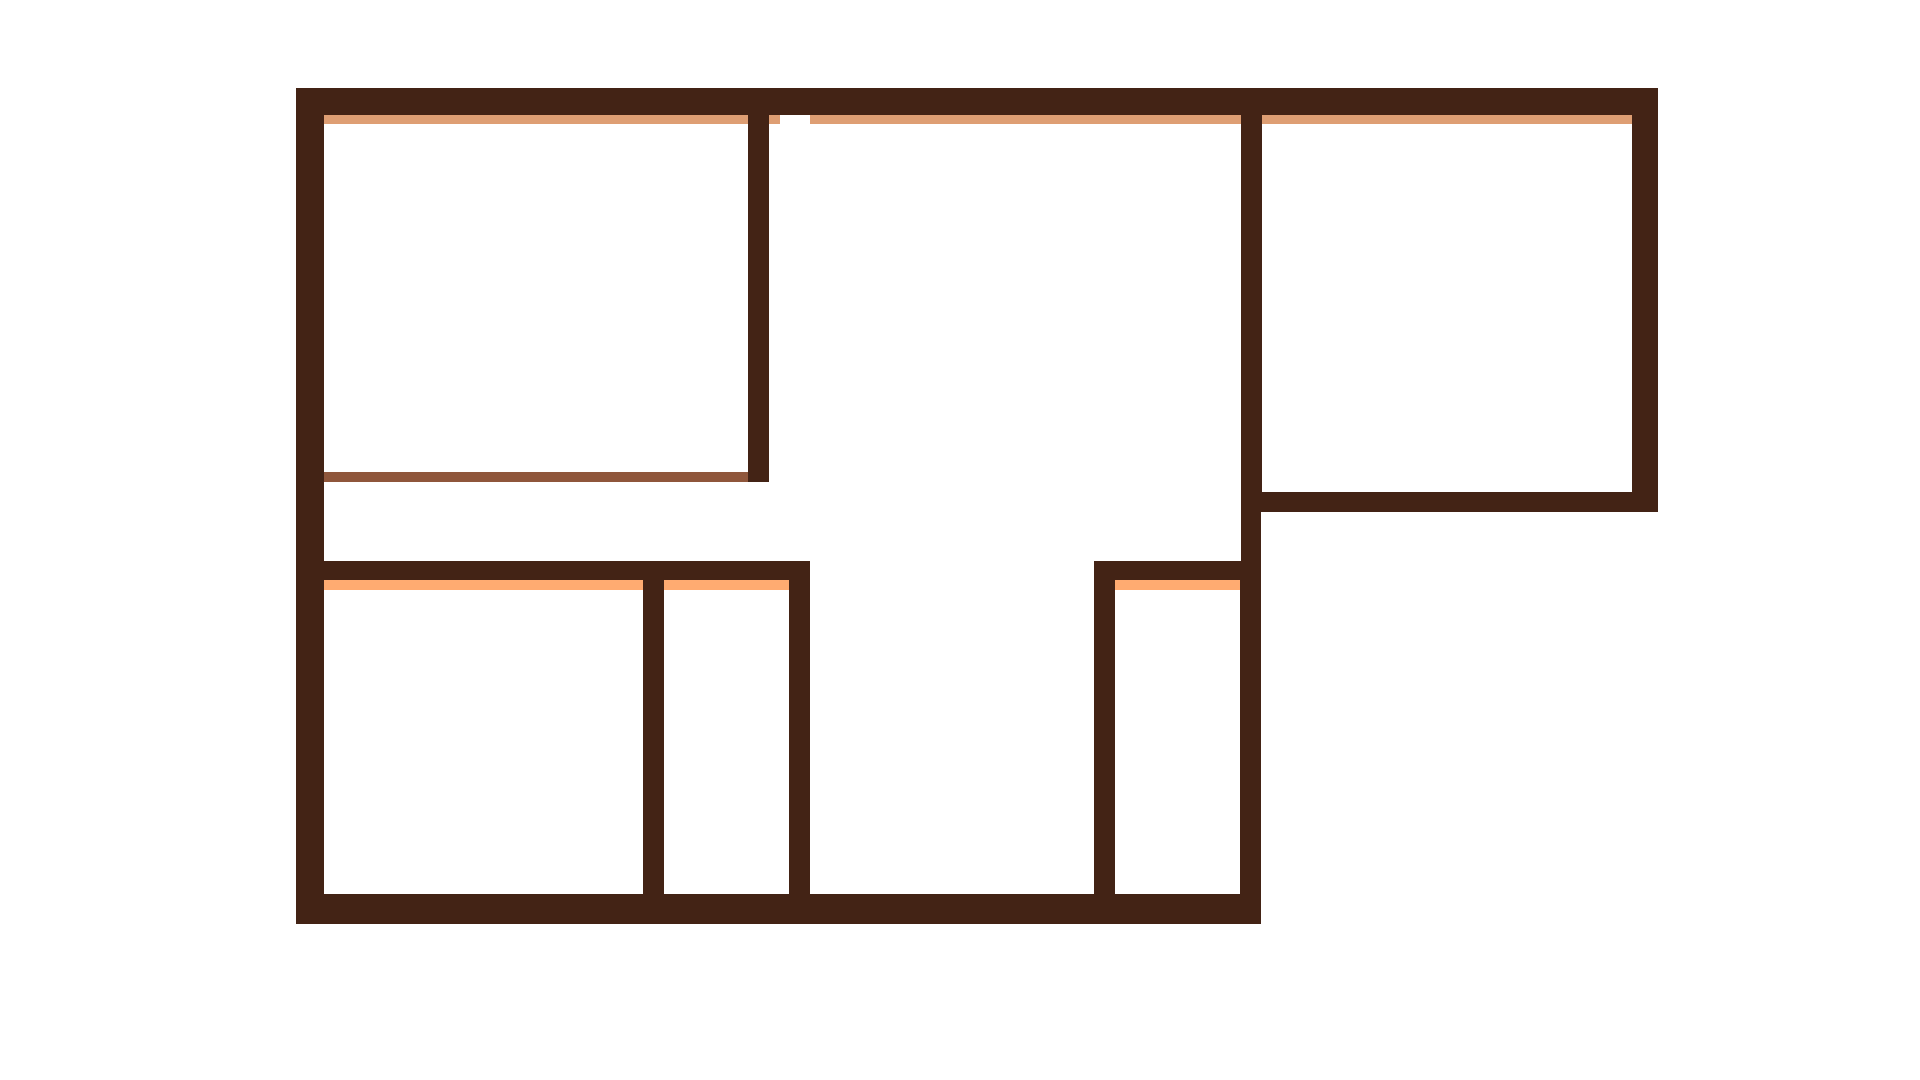
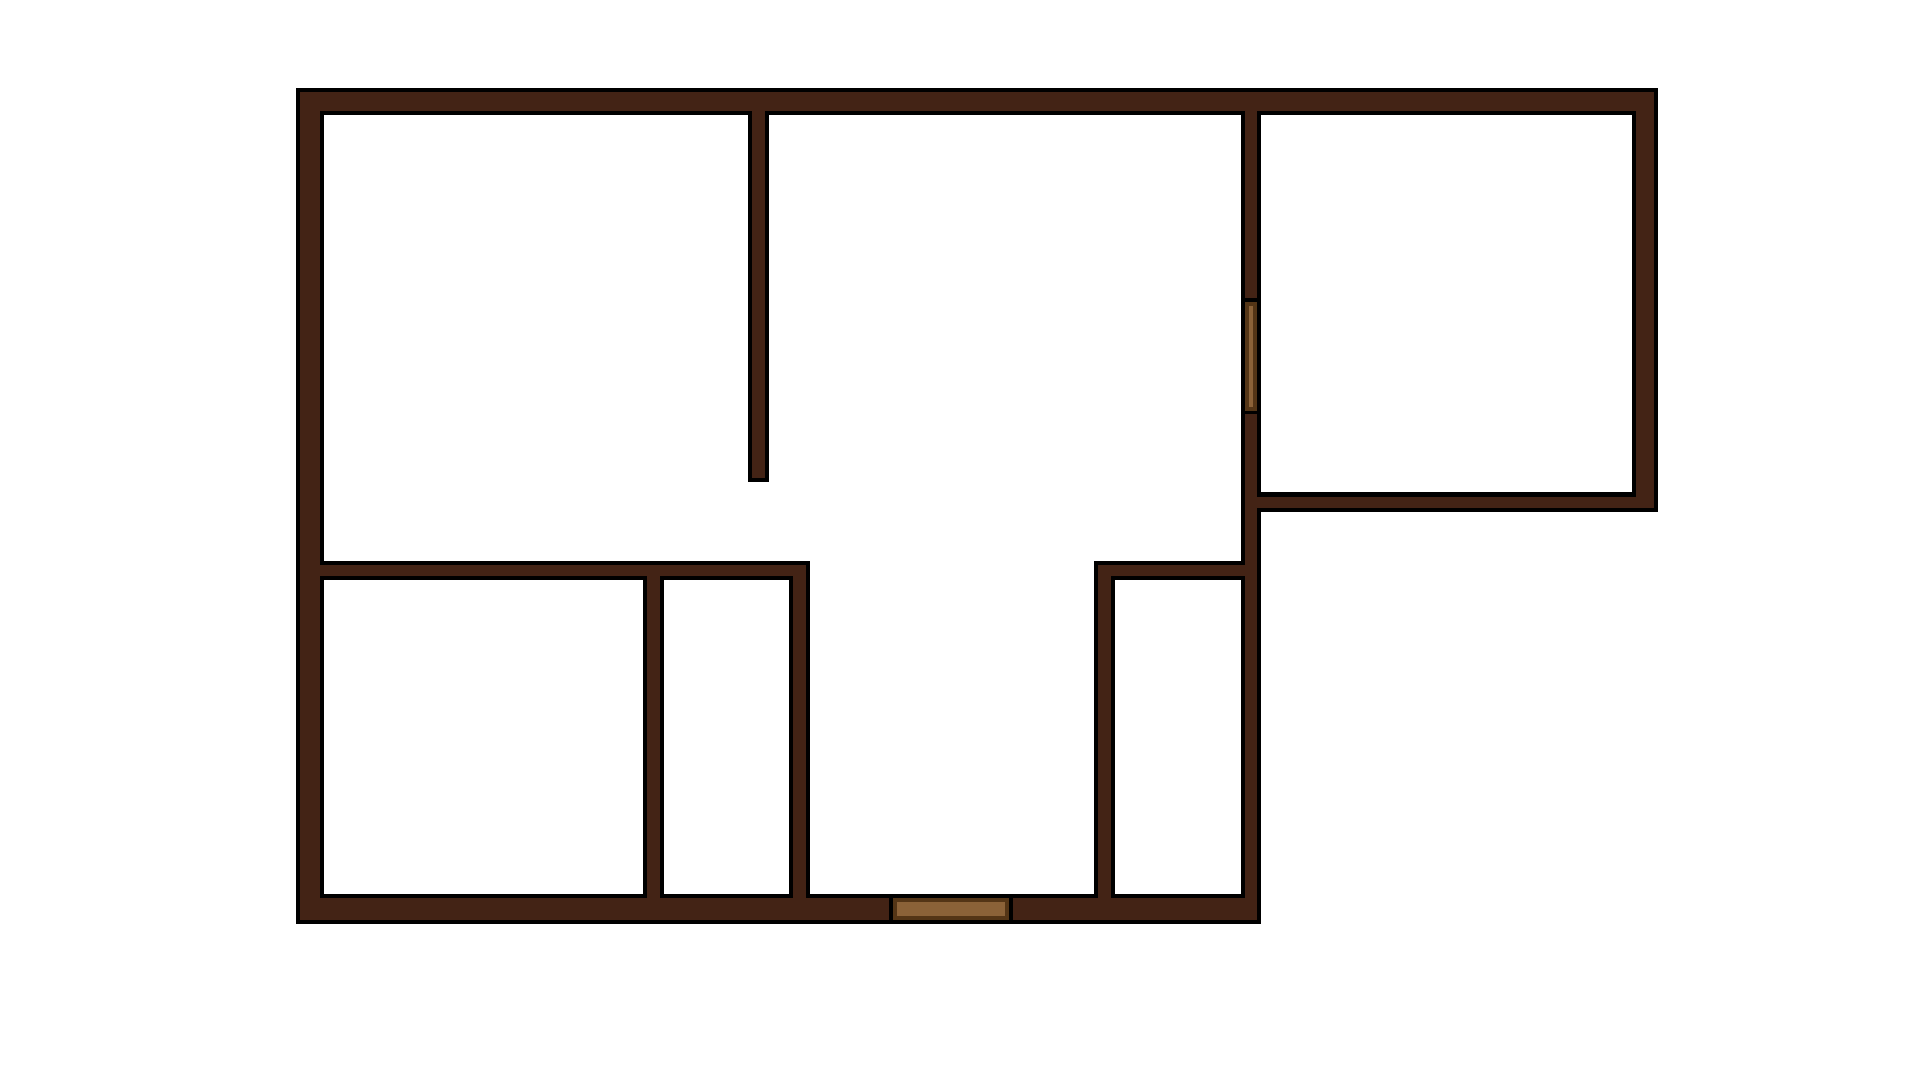
load the ceiling layout

Changed region(s): [[0.1562, 0.0611, 0.875, 0.4889], [0.1562, 0.4889, 0.6562, 0.8556]]

diff --git a/linger/src/scenes/HouseScene.js b/linger/src/scenes/HouseScene.js
@@ -15,11 +15,17 @@ class HouseScene extends Phaser.Scene {
 
 
         // --- 1. BACKGROUND & LAYOUT ---
-
+        // Load the house layout
         const layout = this.add.image(0, 0, 'layout-house')
         .setOrigin(0, 0);
         layout.setDepth(0);
         layout.setDisplaySize(width, height);
+
+        // Load the ceiling layout
+        const ceiling = this.add.image(0, 0, 'layout-ceiling')
+        .setOrigin(0, 0);
+        ceiling.setDepth(2);
+        ceiling.setDisplaySize(width, height); 
 
         // Transition from IntroScene
         // Create a curtain for the transition
@@ -460,6 +466,7 @@ class HouseScene extends Phaser.Scene {
 
         const worldItems = [
             layout, 
+            ceiling,
             this.player, 
             this.dot, 
             beam1,
